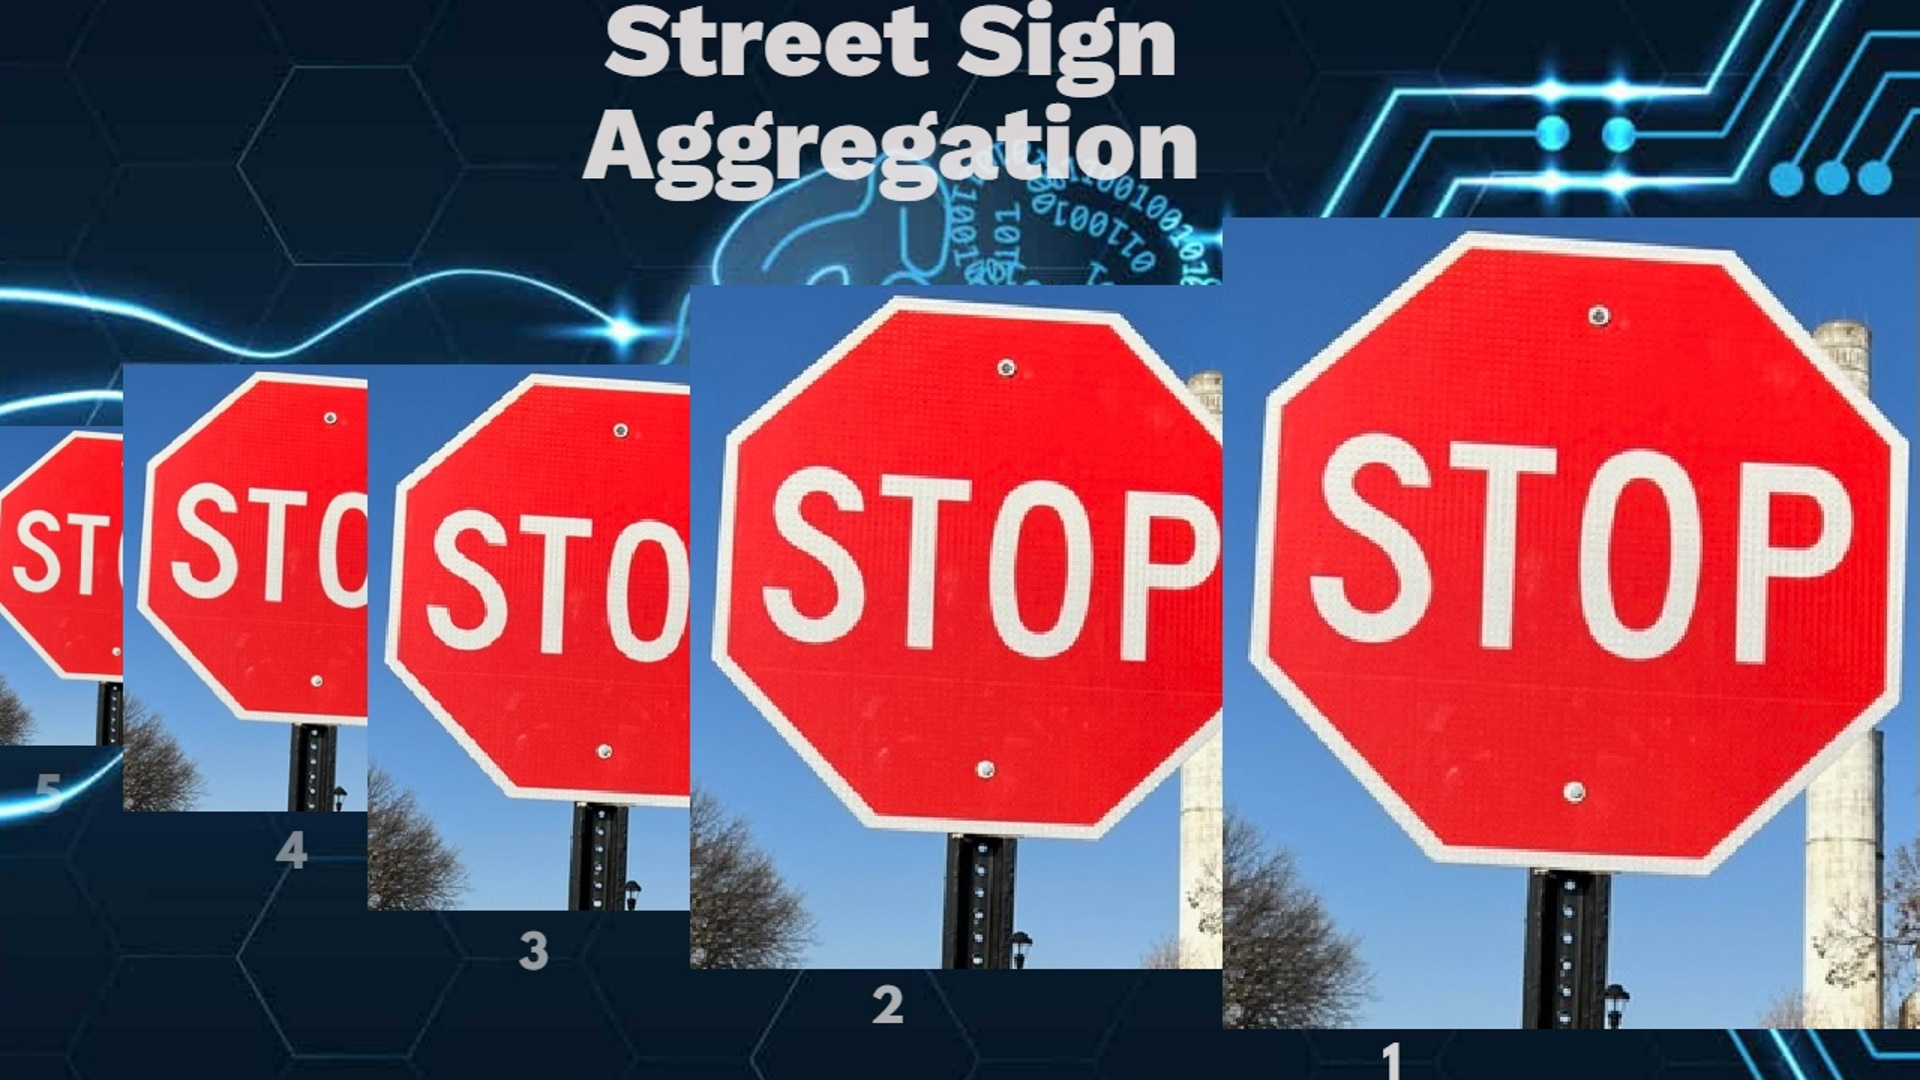
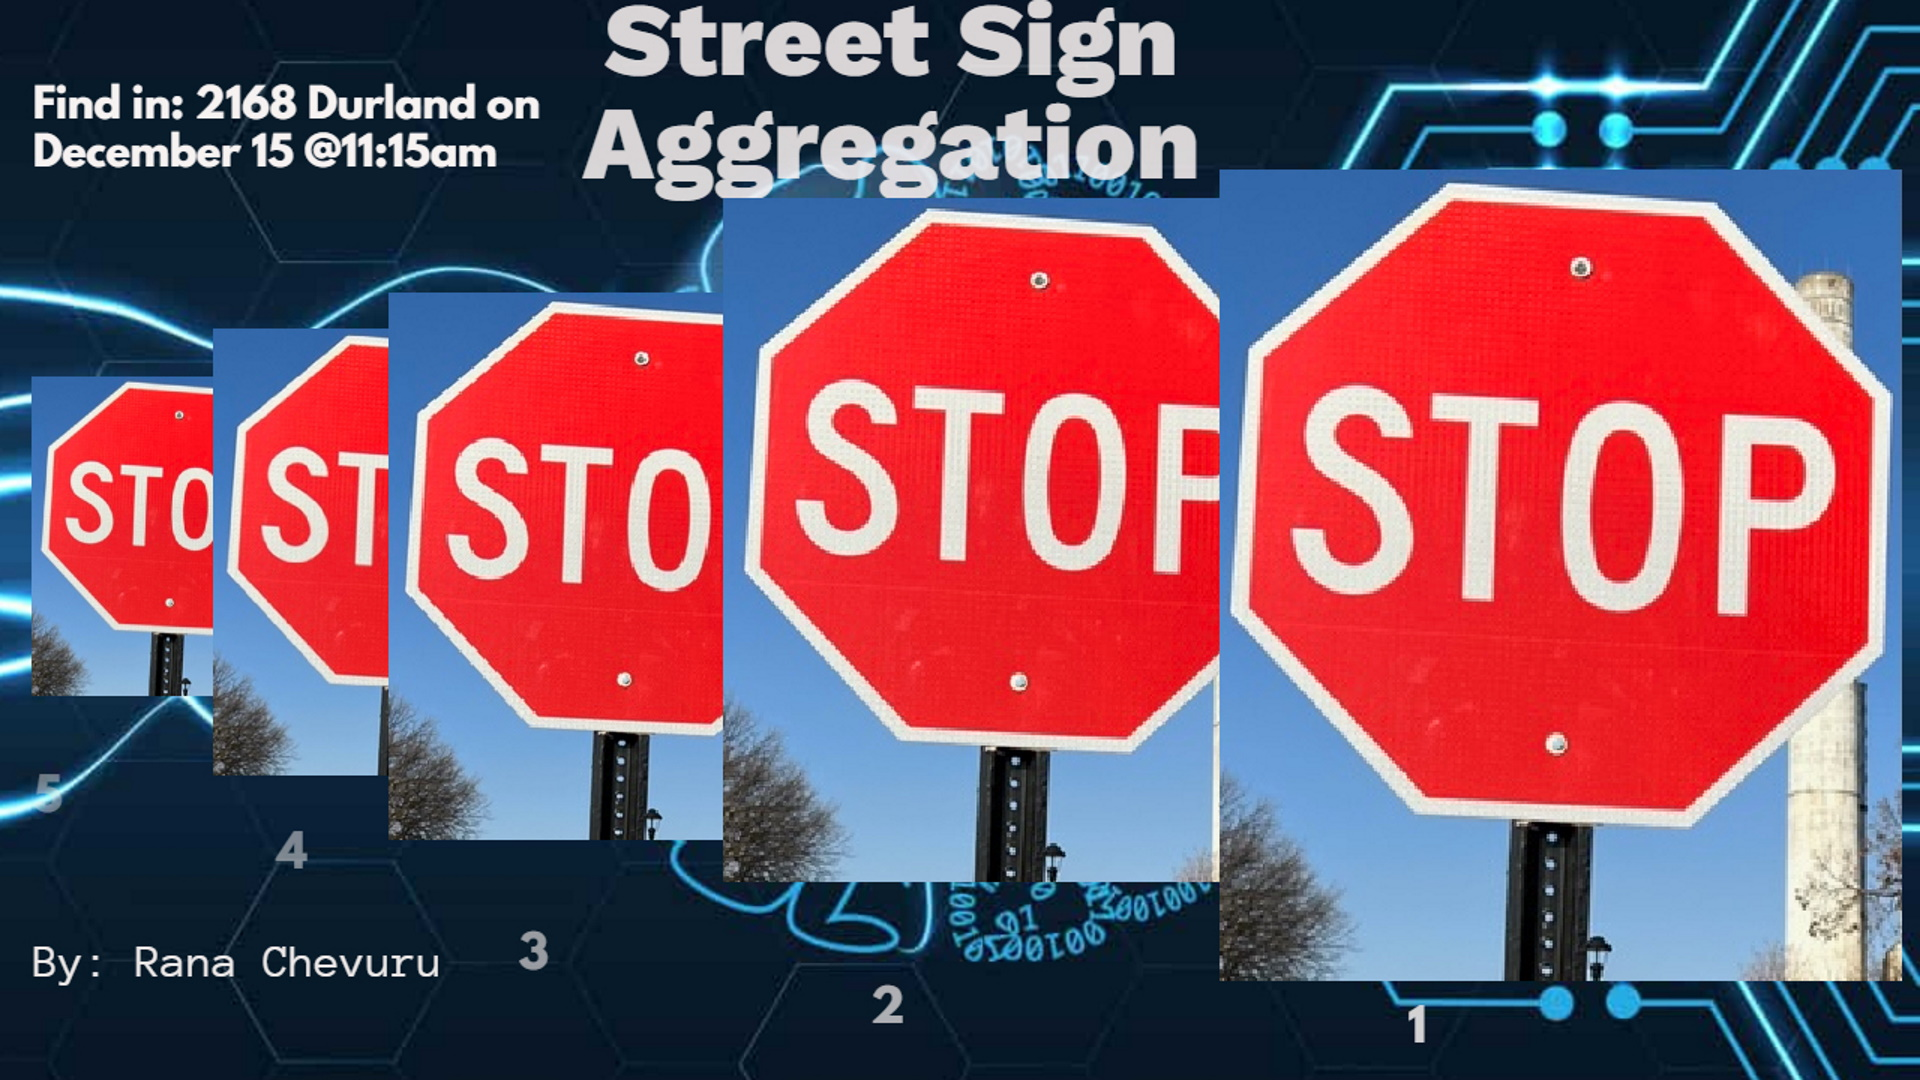
Updates

diff --git a/content/b-schedule/01-fall2022.md b/content/b-schedule/01-fall2022.md
@@ -57,6 +57,10 @@ The Shepherd's Crossing Donor Management System integrates an existing applicati
 
 Graham Mathews
 
+![Terrestrial Things](/images/fall2022/terrestrial.png)
+
+Terrestrial Things is work-in-progress 2D roguelike game where the player must fend off aliens using weapons found around a randomly generated space station. Aliens include the dog-like Shrieker and the rotating laser turret. Weapons include the nailgun, as well as a system of procedurally generated weapons with varying attributes. The weapon's scope, clip, grip, barrel, and trigger differ between each gun and affect the weapon's stats.
+
 ## Case Master {#4}
 
 Charles "Trey" Bohlender
@@ -217,7 +221,7 @@ Rana Chevuru
 
 ![Street Signs](/images/fall2022/streets.jpg)
 
-Allowing artificial intelligence to detect trends can help write reports for businesses. In my case, I decided to aggregate the street signs. To do this I first had to collect the images from google maps API, and I then had to clean them before using AWS Rekognition. There were some discrepancies that came up from training.
+My name is Rana Chevuru, and I am doing street sign aggregation. Allowing artificial intelligence to detect trends can help write reports for businesses. In my case, I decided to aggregate the street signs. To do this I first had to collect the images from google maps API, and I then had to clean them before using AWS Rekognition. There were some discrepancies that came up from the training. Sounds interesting come to Durland 2168 on December 15 at 11:15.
 
 ## Wildcat Intramural {#25}
 
